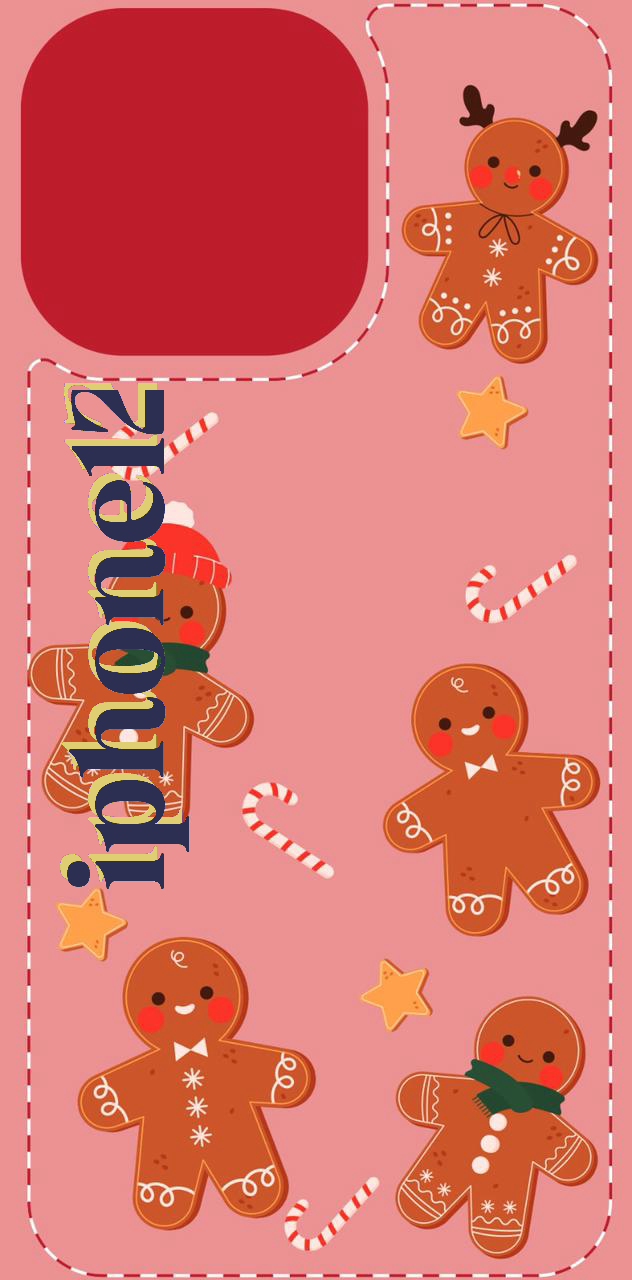
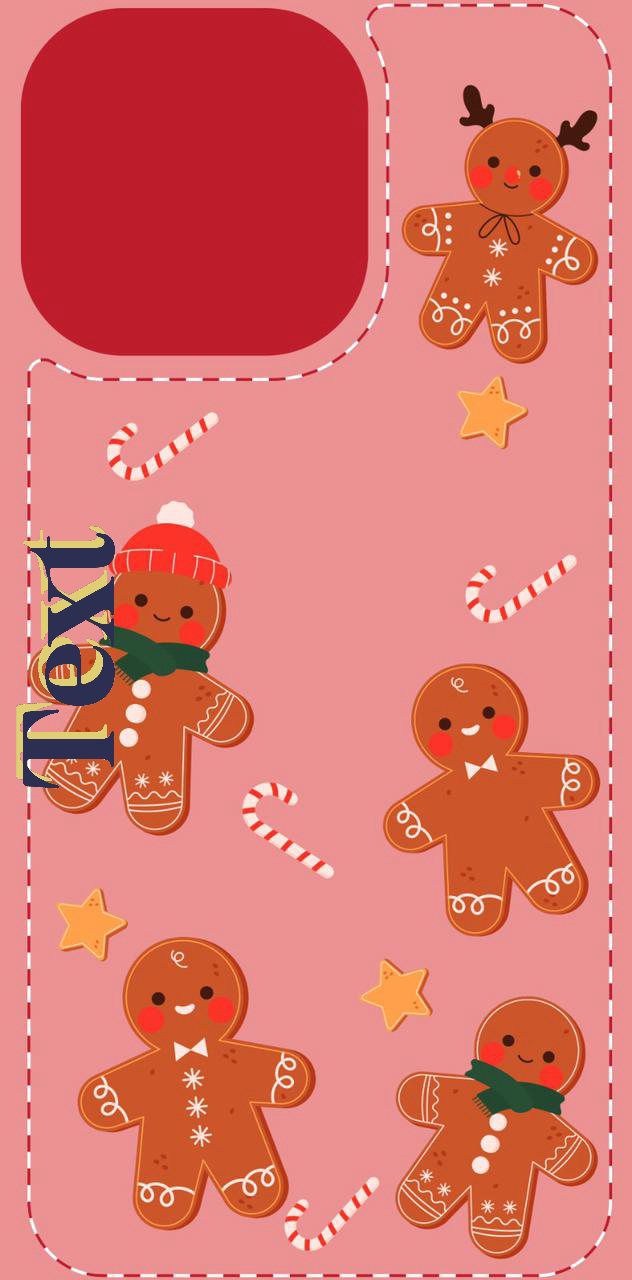
get texxt

Changed region(s): [[0.0, 0.2812, 0.3006, 0.6875]]

diff --git a/index.js b/index.js
@@ -8,14 +8,15 @@ const fontFamily = "../128.fnt";
 
 // Define an endpoint
 app.get('/img', (req, res) => {
-  const phoneModel = req.query.param1; 
+  const phoneModel = req.query.phoneModel; 
   const Text = req.query.Text; 
+  console.log("Text: "+Text);
 Jimp.loadFont(fontFamily)  
   .then((font) => {
     return Jimp.read(inputImagePath).then((image) => {
       // Create a new Jimp image for the text
-      const textImage = new Jimp(500, 500); // Adjust the width and height as needed
-      textImage.print(font, 0, 0, Text); // Add text to the textImage
+      const textImage = new Jimp(300, 600); // Adjust the width and height as needed
+      textImage.print(font, 0, 0, "Text"); // Add text to the textImage
       textImage.rotate(90);  
       textImage.color([{ apply: "xor", params: ["#D3D0AD"] }]);
       const shadowOffset = -7; // Adjust the shadow offset as needed
@@ -32,6 +33,8 @@ Jimp.loadFont(fontFamily)
       const textY = (image.bitmap.height - textImage.bitmap.height) / 2;
       const shadowX = textX + shadowOffset;
       const shadowY = textY + shadowOffset;
+
+     
 
       // Composite the shadowImage onto the original image
       image.composite(shadowImage, shadowX, shadowY);
